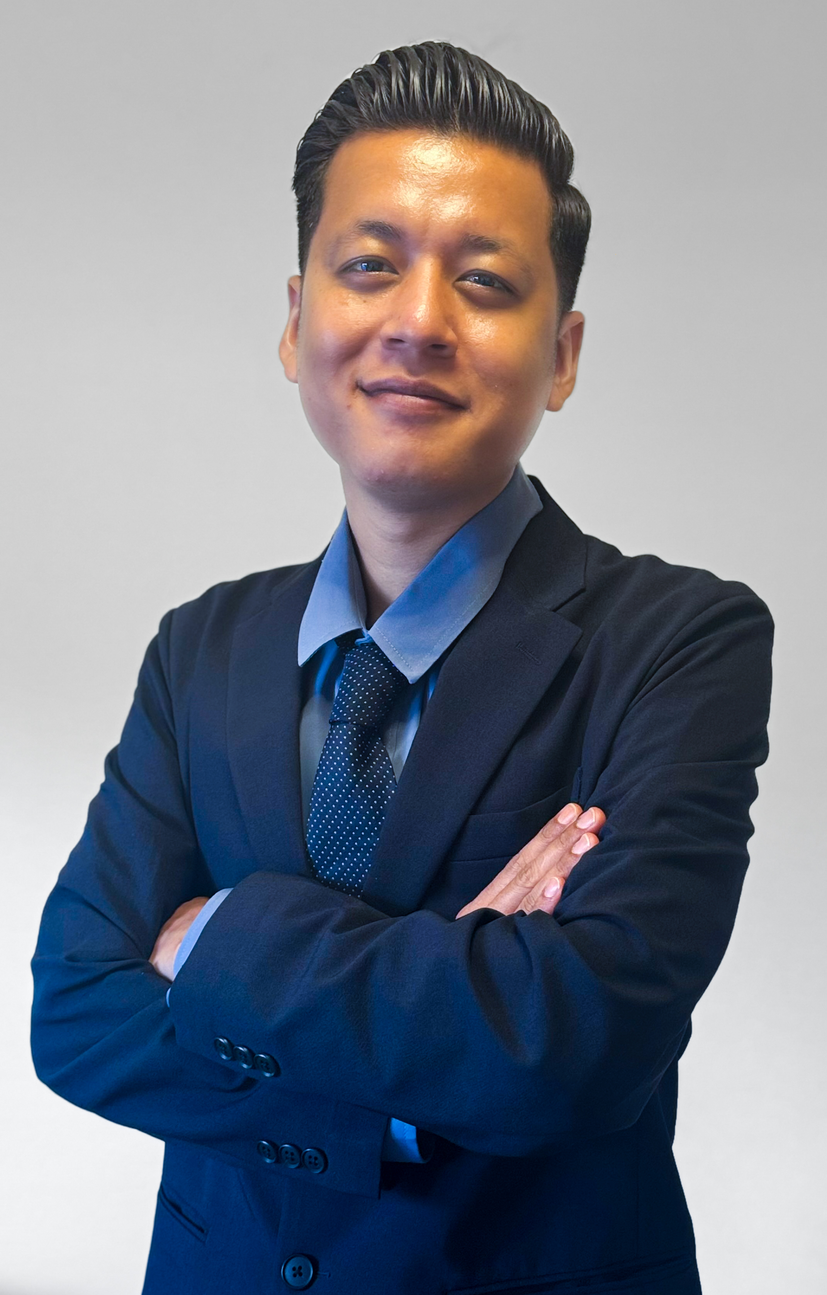
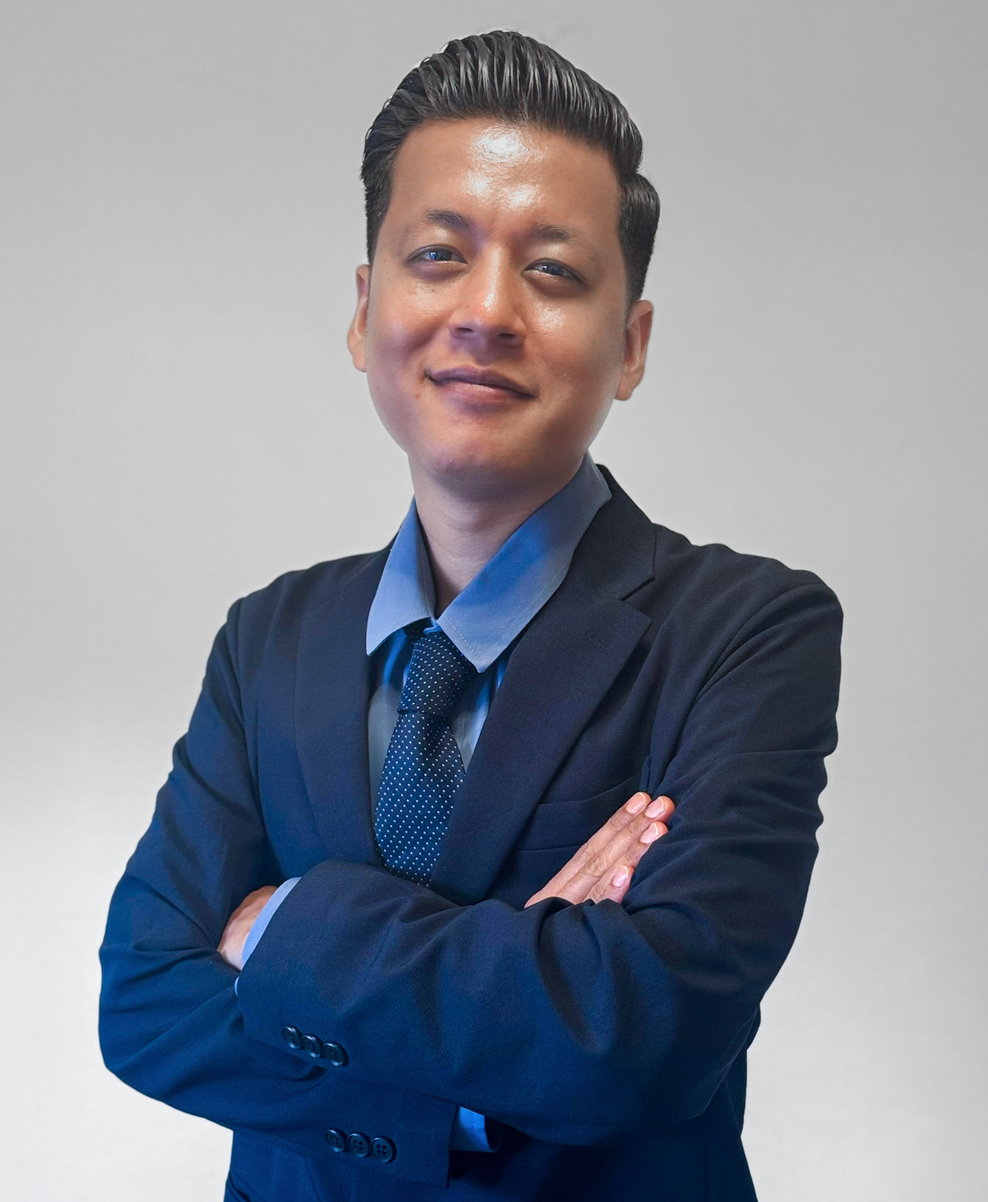
photo style wip3

diff --git a/src/components/About.vue b/src/components/About.vue
@@ -4,7 +4,7 @@
       <div class="grid gap-10 lg:grid-cols-[1.05fr_1fr] lg:items-center">
         <div class="about-left">
           <div
-            class="relative w-[clamp(220px,28vw,320px)] h-[clamp(340px,42vw,480px)]"
+            class="relative w-[clamp(260px,32vw,360px)] h-[clamp(340px,42vw,480px)]"
             aria-hidden="true"
           >
             <div
@@ -19,16 +19,7 @@
                 class="w-full h-full object-cover block"
               />
               <div
-                class="absolute inset-0 z-[1] bg-[linear-gradient(to_bottom,color-mix(in_srgb,var(--theme-cta-bg)_35%,transparent)_0%,transparent_45%,transparent_65%,color-mix(in_srgb,var(--theme-cta-bg)_60%,transparent)_100%)]"
-              ></div>
-              <div
-                class="absolute inset-0 z-[2] opacity-[0.12] mix-blend-soft-light bg-[repeating-linear-gradient(45deg,rgba(255,255,255,0.08)_0_1px,transparent_1px_3px)]"
-              ></div>
-              <div
-                class="absolute top-[-10%] left-1/2 -translate-x-1/2 w-[120%] h-[70%] z-[2] pointer-events-none bg-[radial-gradient(ellipse_at_center,rgba(255,255,255,0.12)_0%,transparent_70%)]"
-              ></div>
-              <div
-                class="absolute top-0 right-0 w-[40%] h-full z-[3] pointer-events-none bg-[linear-gradient(to_left,rgba(255,255,255,0.08)_0%,transparent_100%)]"
+                class="absolute inset-0 z-[1] bg-[radial-gradient(ellipse_at_center,transparent_55%,rgba(0,0,0,0.28)_100%)]"
               ></div>
             </div>
           </div>
